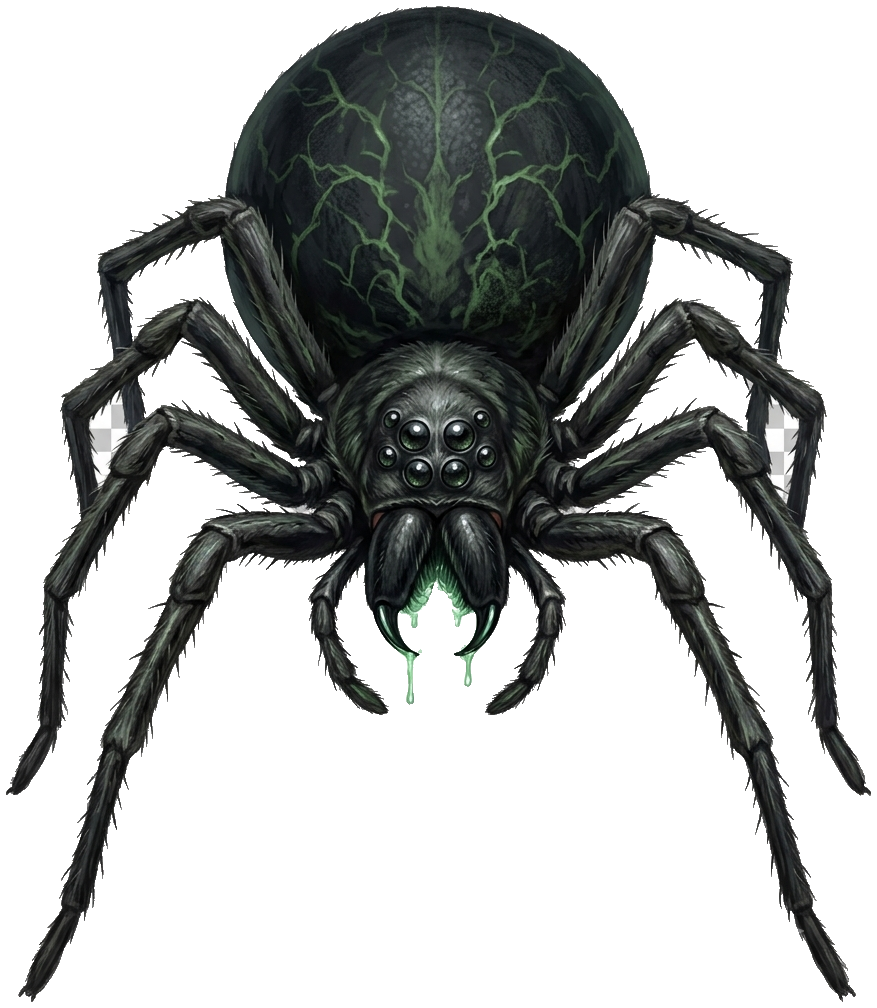
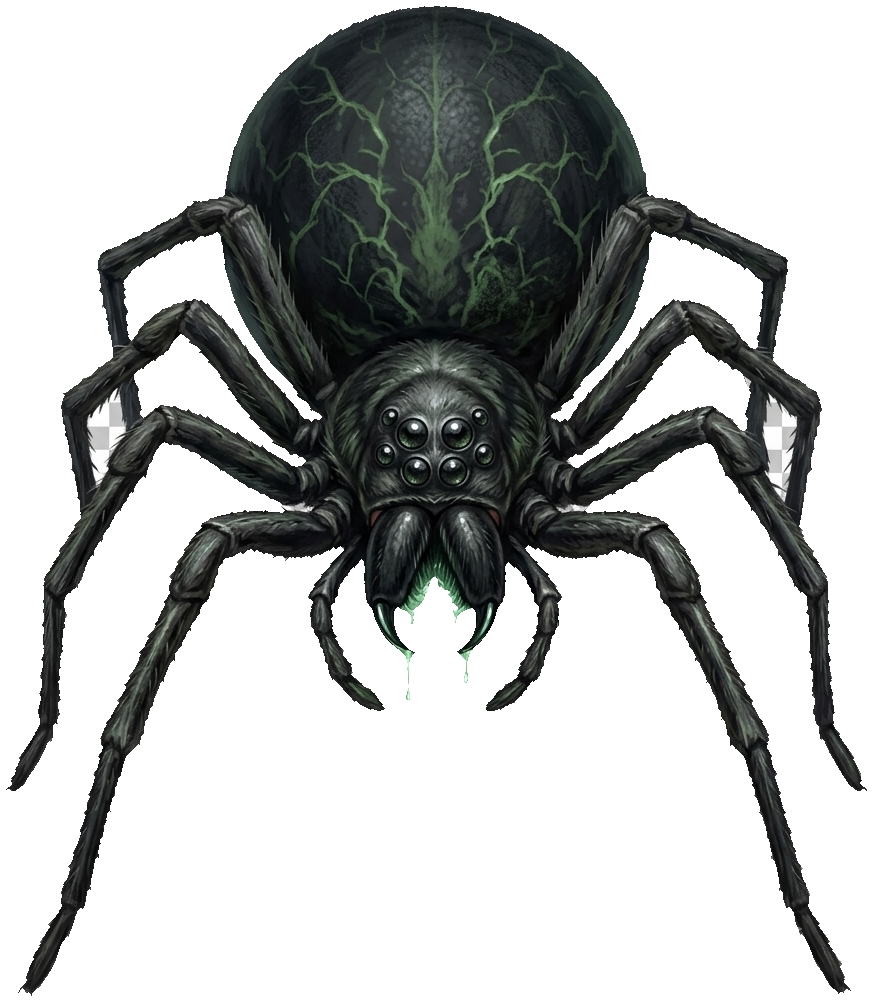
inimigos: recorte melhor (sem franja) + ataque à distância
- Recorte refinado dos 6 sprites: máscara global do xadrez (remove bolsões
  presos entre pernas) + erosão de 2px (tira a franja anti-serrilhada que
  aparecia contra o escuro) + alpha-bleed.
- Ataque à distância: arqueiro atira flechas espectrais (só à distância);
  cultista lança orbe roxo à distância E usa a adaga no corpo-a-corpo. Eles
  PARAM ao entrar no alcance e disparam; o herói pode DESVIAR andando (o
  projétil mira a posição do disparo). Sistema enemyBolts (voa + dano no
  impacto, com clarão), separado do FX de skills do jogador.

Claude-Session: https://claude.ai/code/session_013WvcxhCgG4YoQ53hJyUeUZ

diff --git a/grimhollow/src/game/Game.ts b/grimhollow/src/game/Game.ts
@@ -178,13 +178,15 @@ import deathPoofUrl from "../assets/env/death_poof.png";
 // arqueiro/cultista ainda atacam corpo-a-corpo (à distância fica p/ depois).
 const ENEMY_TYPES: Record<string, {
   art: string; hp: number; atk: number; xp: number; gold: number; vision: number; h: number;
+  ranged?: boolean; melee?: boolean; range?: number; proj?: string;
 }> = {
   rato:      { art: enemyRatoUrl,     hp: 16, atk: 5,  xp: 12, gold: 4,  vision: 5, h: 1.7 },
   aranha:    { art: enemyAranhaUrl,   hp: 22, atk: 8,  xp: 16, gold: 5,  vision: 4, h: 2.0 },
   esqueleto: { art: enemySkeletonUrl, hp: 30, atk: 10, xp: 22, gold: 6,  vision: 5, h: 2.6 },
-  arqueiro:  { art: enemyArqueiroUrl, hp: 26, atk: 8,  xp: 24, gold: 7,  vision: 6, h: 2.6 },
+  // arqueiro: SÓ à distância (flecha espectral). cultista: distância (orbe) E melee (adaga).
+  arqueiro:  { art: enemyArqueiroUrl, hp: 26, atk: 9,  xp: 24, gold: 7,  vision: 7, h: 2.6, melee: false, ranged: true, range: 6, proj: "arrow" },
   carnical:  { art: enemyCarnicalUrl, hp: 48, atk: 14, xp: 32, gold: 9,  vision: 4, h: 2.8 },
-  cultista:  { art: enemyCultistaUrl, hp: 34, atk: 12, xp: 34, gold: 11, vision: 6, h: 2.7 },
+  cultista:  { art: enemyCultistaUrl, hp: 34, atk: 12, xp: 34, gold: 11, vision: 7, h: 2.7, ranged: true, range: 6, proj: "orb" },
 };
 import decWindowUrl from "../assets/env/dec_window.png";
 import decDoorUrl from "../assets/env/dec_door.png";
@@ -1044,6 +1046,10 @@ interface EnemyEnt {
   visionR: number;             // alcance de visão (células)
   homeC: number; homeR: number;// ponto de spawn (âncora da patrulha)
   aggro: boolean;              // já viu/foi atingido → persegue
+  ranged: boolean; melee: boolean; // como ataca
+  range: number;               // alcance do ataque à distância (células)
+  proj: string;                // tipo de projétil ("arrow" | "orb" | "")
+  atkIsRanged: boolean;        // o ataque em curso é à distância?
   hitAt: number; dyingAt: number;
   atkAt: number; hitApplied: boolean; nextAtk: number;
   // passo em grade (interpolação suave entre células)
@@ -1260,6 +1266,9 @@ export class Game {
   private enemies: EnemyEnt[] = [];
   // tocha que acompanha o jogador (ilumina o entorno imediato na masmorra)
   private playerTorch?: THREE.PointLight;
+  // projéteis dos inimigos (flecha do arqueiro / orbe do cultista) — voam e dão dano
+  private enemyBolts: { spr: THREE.Sprite; fx: number; fz: number; tx: number; tz: number; y: number; t0: number; dur: number; dmg: number }[] = [];
+  private boltTexCache?: THREE.Texture;
   // explosão de fumaça (sprite-sheet do GIF) na morte do inimigo
   private poofs: {
     mesh: THREE.Mesh;
@@ -1763,6 +1772,7 @@ export class Game {
     this.reticle = null; // foi descartado pelo world.clear(); recria sob demanda
     this.clearTarget();
     this.projectiles = []; // as meshes já saíram no world.clear() acima
+    this.enemyBolts = [];
     this.poofs = [];
     this.waterGlint = undefined;
     this.doorMap.clear();
@@ -2277,7 +2287,9 @@ export class Game {
     const e: EnemyEnt = {
       mesh, mat, c, r, bx: c * CELL, bz: r * CELL,
       hp: HP, maxHp: HP, atk: ATK, xp: XP, goldBase: GOLD, visionR: VISION,
-      homeC: c, homeR: r, aggro: false, hitAt: 0, dyingAt: 0,
+      homeC: c, homeR: r, aggro: false,
+      ranged: T.ranged ?? false, melee: T.melee ?? true, range: T.range ?? 1, proj: T.proj ?? "",
+      atkIsRanged: false, hitAt: 0, dyingAt: 0,
       atkAt: 0, hitApplied: false, nextAtk: 0,
       stepAt: 0, stepDur: 780, fx: c * CELL, fz: r * CELL, tx: c * CELL, tz: r * CELL, nextMove: 0,
       bar, barFill,
@@ -5515,6 +5527,60 @@ export class Game {
     }
   }
 
+  // textura procedural do projétil: brilho radial (tingido por cor no material)
+  private boltTex(): THREE.Texture {
+    if (this.boltTexCache) return this.boltTexCache;
+    const S = 64; const cv = document.createElement("canvas"); cv.width = cv.height = S;
+    const g = cv.getContext("2d")!;
+    const rad = g.createRadialGradient(S / 2, S / 2, 1, S / 2, S / 2, S / 2);
+    rad.addColorStop(0, "rgba(255,255,255,1)");
+    rad.addColorStop(0.35, "rgba(255,255,255,0.85)");
+    rad.addColorStop(1, "rgba(255,255,255,0)");
+    g.fillStyle = rad; g.fillRect(0, 0, S, S);
+    const t = new THREE.CanvasTexture(cv); t.colorSpace = THREE.SRGBColorSpace;
+    this.boltTexCache = t; return t;
+  }
+  // o inimigo à distância dispara um projétil rumo à posição ATUAL do herói
+  // (mirando o instante do disparo → dá pra desviar andando).
+  private enemyFireProjectile(e: EnemyEnt) {
+    const col = e.proj === "orb" ? 0xb060ff : 0xdff0ff; // orbe roxo / flecha espectral
+    const mat = new THREE.SpriteMaterial({
+      map: this.boltTex(), color: new THREE.Color(col),
+      transparent: true, depthWrite: false, blending: THREE.AdditiveBlending,
+    });
+    const spr = new THREE.Sprite(mat);
+    const size = e.proj === "orb" ? 0.9 : 0.6;
+    spr.scale.set(size, size, 1);
+    const y = 1.4;
+    spr.position.set(e.bx, y, e.bz);
+    this.world.add(spr);
+    const tx = this.col * CELL, tz = this.row * CELL;
+    const dist = Math.hypot(tx - e.bx, tz - e.bz);
+    this.enemyBolts.push({
+      spr, fx: e.bx, fz: e.bz, tx, tz, y, t0: performance.now(),
+      dur: Math.max(180, dist / 14 * 1000), dmg: e.atk, // ~14 u/s
+    });
+    this.ui.playSfx("cast"); // som de conjuração/disparo
+  }
+  // atualiza os projéteis dos inimigos: voam até o alvo; ao chegar, se o herói
+  // ainda está por perto, causa dano (senão desviou). Some com um clarão.
+  private updateEnemyBolts(now: number) {
+    const cx = this.camera.position.x, cz = this.camera.position.z;
+    for (let i = this.enemyBolts.length - 1; i >= 0; i--) {
+      const p = this.enemyBolts[i];
+      const t = (now - p.t0) / p.dur;
+      if (t >= 1) {
+        // acerta se o herói ainda estiver perto do ponto de impacto (~1.3 célula)
+        if (Math.hypot(cx - p.tx, cz - p.tz) < CELL * 1.3) this.damagePlayer(p.dmg);
+        this.spawnPoof(p.tx, p.tz); // clarão de impacto (reaproveita o poof)
+        this.world.remove(p.spr); (p.spr.material as THREE.SpriteMaterial).dispose();
+        this.enemyBolts.splice(i, 1);
+        continue;
+      }
+      p.spr.position.set(p.fx + (p.tx - p.fx) * t, p.y - 0.3 * t * t, p.fz + (p.tz - p.fz) * t);
+    }
+  }
+
   private addWall(
     cx: number,
     cz: number,
@@ -8500,20 +8566,38 @@ export class Game {
       // VISÃO: fica aggro se o herói entra no alcance E há linha de visão livre
       if (!e.aggro && distCells <= e.visionR && this.enemyCanSee(e)) e.aggro = true;
       const adj = distCells === 1;
-      // MOVIMENTO: só quando não está atacando nem no meio de um passo
+      // alcance de tiro (à distância): dentro do alcance, ≥2 células e com linha livre
+      const inShotRange = e.ranged && distCells >= 2 && distCells <= e.range && this.enemyCanSee(e);
+      // MOVIMENTO: persegue até poder atacar. O atirador PARA ao entrar no alcance.
       if (!e.atkAt && !e.stepAt && now >= e.nextMove) {
-        if (e.aggro && !adj) this.enemyChaseStep(e, now);
+        if (e.aggro && !adj && !inShotRange) this.enemyChaseStep(e, now);
         else if (!e.aggro) this.enemyPatrolStep(e, now);
       }
-      // ATAQUE quando adjacente
-      if (!e.atkAt && adj && !e.stepAt && now >= e.nextAtk) e.atkAt = now;
+      // ATAQUE: melee (adjacente) OU à distância (no alcance). Adjacente + melee = melee.
+      const canMelee = e.melee && adj;
+      const canRanged = e.ranged && (inShotRange || (adj && !e.melee)); // arqueiro atira até colado
+      if (!e.atkAt && !e.stepAt && now >= e.nextAtk && (canMelee || canRanged)) {
+        e.atkAt = now;
+        e.atkIsRanged = !canMelee; // se não dá pra golpear agora, é um tiro
+      }
       if (e.atkAt) {
-        const t = (now - e.atkAt) / 700;
-        if (t < 0.4) { const k = t / 0.4; lunge = -0.35 * k; scale = 1 - 0.05 * k; }
-        else if (t < 0.6) { const k = (t - 0.4) / 0.2; lunge = -0.35 + 1.25 * k; scale = 0.95 + 0.27 * k; }
-        else { const k = (t - 0.6) / 0.4; lunge = 0.9 * (1 - k); scale = 1.22 - 0.22 * k; }
-        if (!e.hitApplied && t > 0.52) { e.hitApplied = true; if (adj) this.damagePlayer(e.atk); }
-        if (t >= 1) { e.atkAt = 0; e.hitApplied = false; e.nextAtk = now + 1100; }
+        const dur = e.atkIsRanged ? 620 : 700;
+        const t = (now - e.atkAt) / dur;
+        if (!e.atkIsRanged) {
+          if (t < 0.4) { const k = t / 0.4; lunge = -0.35 * k; scale = 1 - 0.05 * k; }
+          else if (t < 0.6) { const k = (t - 0.4) / 0.2; lunge = -0.35 + 1.25 * k; scale = 0.95 + 0.27 * k; }
+          else { const k = (t - 0.6) / 0.4; lunge = 0.9 * (1 - k); scale = 1.22 - 0.22 * k; }
+        } else {
+          // conjuração/mira: recua um tico e "carrega" (leve crescer)
+          const k = Math.sin(Math.min(1, t) * Math.PI);
+          lunge = -0.25 * k; scale = 1 + 0.08 * k;
+        }
+        if (!e.hitApplied && t > 0.5) {
+          e.hitApplied = true;
+          if (e.atkIsRanged) this.enemyFireProjectile(e);
+          else if (adj) this.damagePlayer(e.atk);
+        }
+        if (t >= 1) { e.atkAt = 0; e.hitApplied = false; e.nextAtk = now + (e.atkIsRanged ? 1500 : 1100); }
       }
       // reação ao dano: brilho vermelho-branco + recuo elástico
       if (sinceHit < 240) {
@@ -8529,6 +8613,7 @@ export class Game {
     }
     this.updatePoofs(now);
     this.updateProjectiles(now);
+    this.updateEnemyBolts(now);
     // ciclo dia/noite (cor da atmosfera, luzes e postes) — só em locais externos
     this.updateDayNight(now);
     // relógio do HUD (sol/lua orbitando) — anda mesmo em interiores
